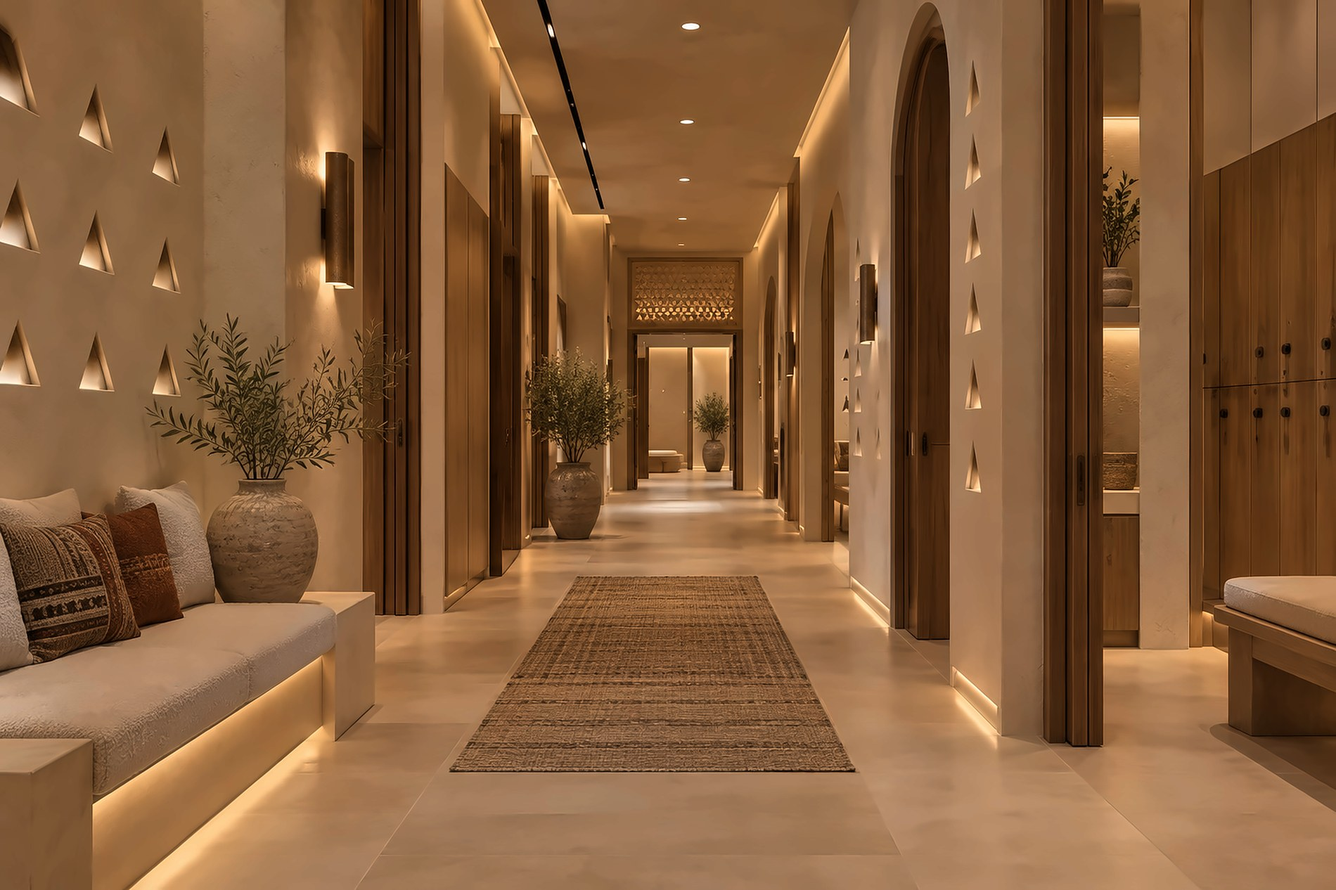
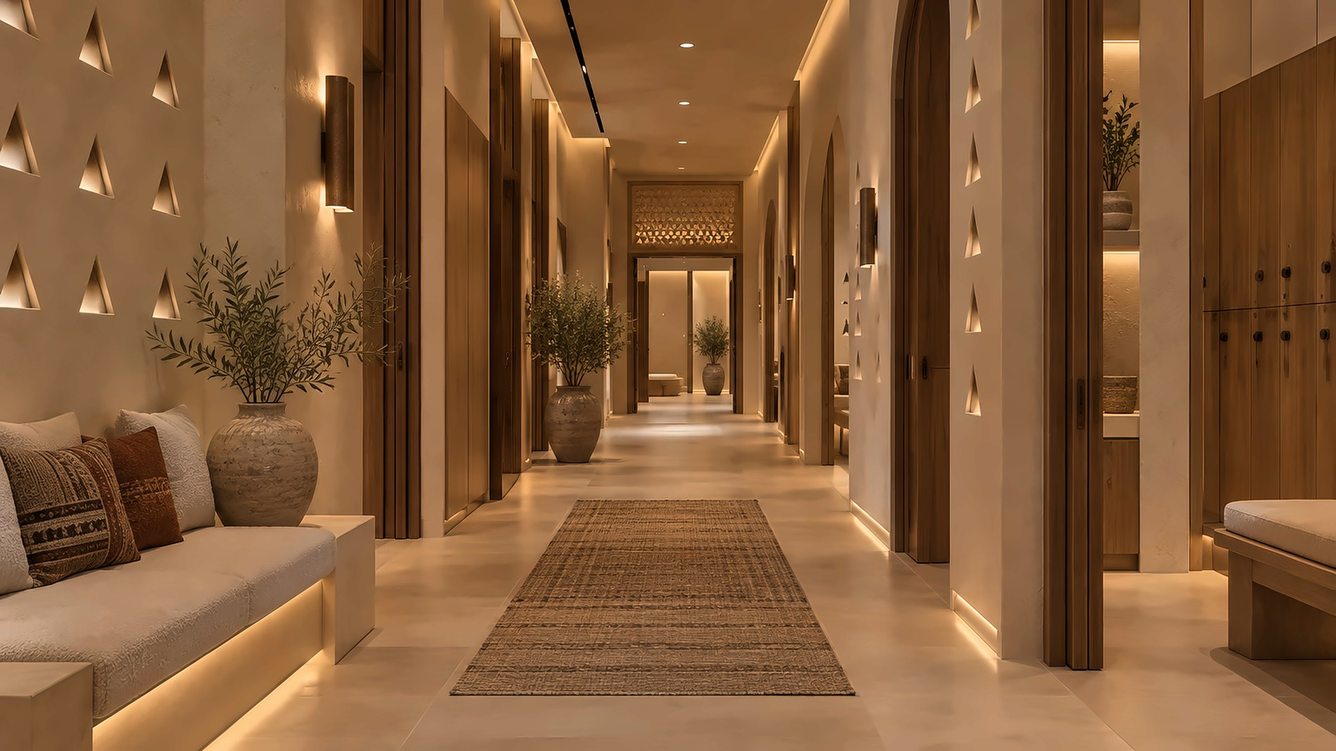
Sidra Pilates: consistent 16:9 images
Claude-Session: https://claude.ai/code/session_01AbeCJNANwosaTvqTpZqLxX

diff --git a/data.js b/data.js
@@ -1,1 +1,1 @@
-window.PROJECTS=[{"s":"com","n":"YRG Office","d":"تصميم داخلي لمقر إداري بخامات خشبية وخرسانية، يضم استقبالاً ومكاتب وقاعات اجتماعات.","p":[["p007-1.jpg",1160,920],["p007-2.jpg",1160,920],["p007-3.jpg",1156,920],["p008-1.jpg",1156,920],["p008-2.jpg",1160,920],["p008-3.jpg",1156,920],["p009-1.jpg",1400,783],["p010-1.jpg",1160,920],["p010-2.jpg",1160,916],["p010-3.jpg",1160,920],["p011-1.jpg",1160,920],["p011-2.jpg",1160,920],["p011-3.jpg",1160,920],["p012-1.jpg",1160,920],["p012-2.jpg",1160,916],["p012-3.jpg",1156,916],["p013-1.jpg",1156,920],["p013-2.jpg",1160,920],["p013-3.jpg",1160,920],["p014-1.jpg",1160,920],["p014-2.jpg",1160,920],["p014-3.jpg",1160,916]]},{"s":"com","n":"شركة FECO","d":"تصميم داخلي لمقر إداري متكامل، يضم مكاتب وقاعات اجتماعات وقاعة محاضرات.","p":[["p016-1.jpg",1400,933],["p016-2.jpg",1400,933],["p017-1.jpg",1400,933],["p017-2.jpg",1400,933],["p018-1.jpg",1400,933],["p018-2.jpg",1400,930],["p019-1.jpg",1400,938],["p019-2.jpg",1400,930],["p020-1.jpg",1400,783],["p021-1.jpg",1400,933],["p021-2.jpg",1400,935],["p022-1.jpg",1400,784],["p023-1.jpg",1400,933],["p023-2.jpg",1400,935],["p024-1.jpg",1400,783],["p025-1.jpg",1400,933],["p025-2.jpg",1400,935]]},{"s":"com","n":"شركة العليا للأعمال","d":"مقر شركة أعمال بواجهة حجرية وشرائح خشبية، يضم مدخلاً واستقبالاً وقاعة اجتماعات ومساحة عمل.","p":[["p027-1.jpg",1400,935],["p027-2.jpg",1400,935],["p028-1.jpg",1400,935],["p028-2.jpg",1400,932]]},{"s":"com","n":"شركة تسويق في الخبر","d":"مقر شركة تسويق بواجهة خرسانية وزجاج واسع، يضم مساحة عمل مفتوحة وركن قهوة وقاعة اجتماعات زجاجية.","p":[["p030-1.jpg",1400,932],["p030-2.jpg",1400,930],["p031-1.jpg",1400,932],["p031-2.jpg",1400,935]]},{"s":"com","n":"دار الاستشارات بالمدينة","d":"مقر استشاري بواجهة حجرية وأقواس، يضم استقبالاً وقاعة اجتماعات ومكتب مدير.","p":[["p033-1.jpg",1156,920],["p033-2.jpg",1160,920],["p033-3.jpg",1156,916],["p034-1.jpg",1400,847]]},{"s":"com","n":"مجمع السدحان التجاري","d":"مجمع تجاري ومكاتب بواجهات حجرية وخشبية، يضم محلات وردهات استقبال ومواقف سيارات وصالات جلوس.","p":[["p036-1.jpg",1400,930],["p036-2.jpg",1400,932],["p037-1.jpg",1400,935],["p037-2.jpg",1400,933],["p038-1.jpg",1400,935],["p038-2.jpg",1400,935],["p039-1.jpg",1400,933],["p039-2.jpg",1400,935],["p040-1.jpg",1400,930],["p040-2.jpg",1400,932],["p041-1.jpg",1400,930],["p041-2.jpg",1400,933],["p042-1.jpg",1400,933],["p042-2.jpg",1400,935],["p043-1.jpg",1400,933],["p043-2.jpg",1400,933],["p044-1.jpg",1400,935],["p044-2.jpg",1400,935],["p045-1.jpg",1400,933],["p045-2.jpg",1400,935],["p046-1.jpg",1400,933],["p046-2.jpg",1400,935],["p047-1.jpg",1400,933],["p047-2.jpg",1400,934],["p048-1.jpg",1400,930],["p048-2.jpg",1400,932],["p049-1.jpg",1400,935],["p049-2.jpg",1400,930]]},{"s":"com","n":"مجمع قرطبة التجاري","d":"مجمع تجاري بواجهات حجرية وأروقة مظللة، يضم محلات وممرات مفتوحة ومكتبة.","p":[["p051-1.jpg",1400,933],["p051-2.jpg",1400,933],["p052-1.jpg",1400,932],["p052-2.jpg",1400,935]]},{"s":"com","n":"المجمع التجاري","d":"مجمع تجاري بواجهات من الحجر الأبيض والشرائح الخشبية، يضم محلات تجزئة.","p":[["p054-1.jpg",1400,781],["p054-2.jpg",1400,776]]},{"s":"com","n":"معرض مسار للسيارات","d":"صالة معرض سيارات باستقبال ودرج وردهة عرض، وتضم مكاتب إدارية مفتوحة ومكتب مدير.","p":[["p056-1.jpg",1400,842],["p057-1.jpg",1400,933],["p057-2.jpg",1400,933],["p058-1.jpg",1400,929]]},{"s":"com","n":"مصنع الفخار","d":"مقر أعمال فخار بواجهة بلون الرمل، يضم استقبالاً ومعرضاً وورشة عمل وغرفة أفران.","p":[["p060-1.jpg",1160,920],["p060-2.jpg",1160,920],["p060-3.jpg",1160,920],["p061-1.jpg",1400,933],["p061-2.jpg",1400,933]]},{"s":"com","n":"صالون أناقة","d":"صالون نسائي متكامل، يضم استقبالاً وأقساماً للتجميل والعناية الشخصية.","p":[["p063-1.jpg",1160,920],["p063-2.jpg",1160,920],["p063-3.jpg",1160,920],["p064-1.jpg",1400,933],["p064-2.jpg",1400,933]]},{"s":"com","n":"بيلاتس سدرة","d":"استوديو بيلاتس بطابع حجري دافئ، يضم استقبالاً وصالات تمارين وغرف خدمات.","p":[["pilates-01.jpg",1900,1069],["pilates-02.jpg",1900,1069],["pilates-03.jpg",1900,1069],["pilates-04.jpg",1900,1266],["pilates-05.jpg",1919,820],["pilates-06.jpg",1900,1069]]},{"s":"com","n":"النادي الرياضي","d":"نادٍ رياضي بواجهة داكنة وإضاءة زرقاء، يضم استقبالاً وصالات تمارين واستوديوهات وغرف خزائن.","p":[["p069-1.jpg",1400,935],["p069-2.jpg",1400,935],["p070-1.jpg",1156,916],["p070-2.jpg",1156,916],["p070-3.jpg",1160,916],["p071-1.jpg",1400,934],["p071-2.jpg",1400,934],["p072-1.jpg",1400,932],["p072-2.jpg",1400,932]]},{"s":"com","n":"أتيليه الروضة","d":"بوتيك بواجهة حجرية وزجاج واسع، يضم صالة عرض ومنطقة جلوس وغرف قياس.","p":[["p074-1.jpg",1400,933],["p074-2.jpg",1400,935],["p075-1.jpg",1400,930],["p075-2.jpg",1400,935]]},{"s":"com","n":"مدرسة أفق","d":"مدرسة بواجهة بيضاء وتفاصيل سماوية، تضم فصولاً ومختبراً ومقصفاً ومسبحاً داخلياً.","p":[["p077-1.jpg",1400,933],["p077-2.jpg",1400,933],["p078-1.jpg",1400,826],["p079-1.jpg",1400,933],["p079-2.jpg",1400,935],["p080-1.jpg",1400,933],["p080-2.jpg",1400,933],["p081-1.jpg",1400,782]]},{"s":"food","n":"فرع مقهى د. كيف في KAFD","d":"مقهى بواجهة من الشبك الذهبي، يضم بار قهوة دائرياً بإضاءة محيطية ومقاعد بإطلالة على المدينة.","p":[["p084-1.jpg",1400,933],["p084-2.jpg",1400,932],["p085-1.jpg",1020,1280],["p085-2.jpg",1400,782]]},{"s":"food","n":"كافيه BETA","d":"كافيه بمجسم دائري مغطى بشبك معدني، يضم جلسات خشبية وباراً وإضاءة دافئة.","p":[["p087-1.jpg",1400,932],["p087-2.jpg",1400,932],["p088-1.jpg",1400,933],["p088-2.jpg",1400,932]]},{"s":"food","n":"المحمصة","d":"محمصة قهوة بواجهة خرسانية وطوب، تضم صالة التحميص وغرفة تذوق وبار تحضير.","p":[["p090-1.jpg",1400,935],["p090-2.jpg",1400,933],["p091-1.jpg",1400,933],["p091-2.jpg",1400,935]]},{"s":"food","n":"محمصة CORE","d":"محمصة قهوة بطابع عصري، بواجهة ليلية من شرائح معدنية سوداء ولوحة مضيئة.","p":[["p093-1.jpg",1400,932],["p093-2.jpg",1400,934]]},{"s":"food","n":"مطعم توهج اللؤلؤ","d":"مطعم في جدة بإطلالة بحرية وتفاصيل خشبية ورخامية، يضم استقبالاً وصالة طعام.","p":[["p095-1.jpg",1400,933],["p095-2.jpg",1400,935],["p096-1.jpg",1400,932],["p096-2.jpg",1400,930]]},{"s":"food","n":"مطعم المرتفعات","d":"مطعم في الباحة بإطلالة جبلية، بجدران حجرية داكنة وسقف خشبي ومطبخ مفتوح وشرفة خارجية.","p":[["p098-1.jpg",1400,932],["p098-2.jpg",1400,934],["p099-1.jpg",1400,930],["p099-2.jpg",1400,933]]},{"s":"res","n":"فيلا بتصميم عصري","d":"فيلا بواجهة من الحجر الرمادي والشرائح الخشبية، تظهر بإضاءة مسائية.","p":[["p102-1.jpg",1400,869],["p103-1.jpg",1400,930],["p103-2.jpg",1400,932]]},{"s":"res","n":"فيلا بالحجر الطبيعي","d":"فيلا بواجهة من حجر الترافرتين وشاشة خشبية مخرّمة، تضم مدخلاً وكراجاً مغطى بالخشب.","p":[["p105-1.jpg",1160,920],["p105-2.jpg",1156,920],["p105-3.jpg",1156,920],["p106-1.jpg",1400,935],["p106-2.jpg",1400,933]]},{"s":"res","n":"مبنى سكني بشرفات خضراء","d":"شقق سكنية في مكة المكرمة بشرفات مزروعة وواجهة مضاءة بإضاءة دافئة وقت الغروب.","p":[["p108-1.jpg",1400,656],["p109-1.jpg",1400,635]]},{"s":"res","n":"فيلا كلاسيكية بالحجر الكريمي","d":"فيلا بطراز كلاسيكي من الحجر الكريمي، بواجهة أمامية وتراس وحديقة خلفية.","p":[["p111-1.jpg",1156,920],["p111-2.jpg",1160,916],["p111-3.jpg",1156,920]]},{"s":"res","n":"مجلس عصري بجلسات بيج","d":"مجلس بتصميم عصري وجلسات بيج، بخلفية خشبية وثريا أسماك نحاسية.","p":[["p113-1.jpg",1400,933],["p113-2.jpg",1400,930]]},{"s":"res","n":"مجلس رجال بجلسات خضراء","d":"مجلس رجال بطابع فاخر وجلسات خضراء، بلوحة خيول وثريا كريستال.","p":[["p115-1.jpg",1400,933],["p115-2.jpg",1400,933]]},{"s":"res","n":"غرفة طعام رخامية","d":"غرفة طعام من الرخام بطاولة طويلة وثريا حلقات معدنية.","p":[["p117-1.jpg",1400,935],["p117-2.jpg",1400,935]]},{"s":"res","n":"فيلا بتصميم كلاسيكي","d":"فيلا بتصميم كلاسيكي، بصالة جلوس تضم مدفأة رخامية وثريا معدنية.","p":[["p119-1.jpg",1400,935],["p119-2.jpg",1400,933],["p120-1.jpg",1400,930],["p120-2.jpg",1400,933]]},{"s":"res","n":"فيلا صحراوية","d":"فيلا بطابع صحراوي، تضم غرفة معيشة وطعام ونوم بإطلالة جبلية.","p":[["p122-1.jpg",1400,933],["p122-2.jpg",1400,935]]},{"s":"res","n":"لوفت حضري في العلا","d":"لوفت بمساحات مفتوحة وأسقف مرتفعة، يجمع الخرسانة والخشب الداكن مع إطلالة على الحديقة.","p":[["p124-1.jpg",1400,935],["p124-2.jpg",1400,935],["p125-1.jpg",1400,938],["p125-2.jpg",1400,932],["p126-1.jpg",1400,774]]},{"s":"farm","n":"مزرعة RAC","d":"مزرعة بمبنى حديث بأسقف مائلة، يضم مواقف سيارات ومساحات خارجية.","p":[["p129-1.jpg",1400,932],["p129-2.jpg",1400,933]]},{"s":"farm","n":"فيلا المزرعة","d":"فيلا بتصميم أفقي حديث وسط المزارع، تظهر بإضاءة دافئة وقت الغروب.","p":[["p131-1.jpg",1400,933],["p131-2.jpg",1400,933],["p132-1.jpg",1400,935],["p132-2.jpg",1400,933]]},{"s":"farm","n":"مزرعة فناء النخل","d":"مزرعة ببيت حجري تحيط به أشجار النخيل، يضم مسبحاً ومساحات جلوس خارجية.","p":[["p134-1.jpg",1400,930],["p134-2.jpg",1400,933],["p135-1.jpg",1400,932],["p135-2.jpg",1400,935]]},{"s":"farm","n":"منزل ريفي في السودة","d":"منزل ريفي بطابع جبلي، مبني بالحجر على سفح الجبل وحوله مدرجات زراعية.","p":[["p137-1.jpg",1400,933],["p137-2.jpg",1400,933],["p138-1.jpg",1400,935],["p138-2.jpg",1400,935]]},{"s":"ind","n":"مصنع المشروبات الغازية","d":"مصنع مشروبات غازية بواجهة من الألواح البيضاء والأعمدة الحمراء.","p":[["p141-1.jpg",1400,935],["p141-2.jpg",1400,933],["p142-1.jpg",1400,933],["p142-2.jpg",1400,933],["p143-1.jpg",1160,920],["p143-2.jpg",1160,920],["p143-3.jpg",1160,920]]},{"s":"ind","n":"ساحة الرياض اللوجستية","d":"مجمع لوجستي يضم مبنى إدارياً ومستودعات بأرصفة تحميل وساحات مناولة.","p":[["p145-1.jpg",1400,932],["p145-2.jpg",1400,935],["p146-1.jpg",1400,933],["p146-2.jpg",1400,933]]}];
+window.PROJECTS=[{"s":"com","n":"YRG Office","d":"تصميم داخلي لمقر إداري بخامات خشبية وخرسانية، يضم استقبالاً ومكاتب وقاعات اجتماعات.","p":[["p007-1.jpg",1160,920],["p007-2.jpg",1160,920],["p007-3.jpg",1156,920],["p008-1.jpg",1156,920],["p008-2.jpg",1160,920],["p008-3.jpg",1156,920],["p009-1.jpg",1400,783],["p010-1.jpg",1160,920],["p010-2.jpg",1160,916],["p010-3.jpg",1160,920],["p011-1.jpg",1160,920],["p011-2.jpg",1160,920],["p011-3.jpg",1160,920],["p012-1.jpg",1160,920],["p012-2.jpg",1160,916],["p012-3.jpg",1156,916],["p013-1.jpg",1156,920],["p013-2.jpg",1160,920],["p013-3.jpg",1160,920],["p014-1.jpg",1160,920],["p014-2.jpg",1160,920],["p014-3.jpg",1160,916]]},{"s":"com","n":"شركة FECO","d":"تصميم داخلي لمقر إداري متكامل، يضم مكاتب وقاعات اجتماعات وقاعة محاضرات.","p":[["p016-1.jpg",1400,933],["p016-2.jpg",1400,933],["p017-1.jpg",1400,933],["p017-2.jpg",1400,933],["p018-1.jpg",1400,933],["p018-2.jpg",1400,930],["p019-1.jpg",1400,938],["p019-2.jpg",1400,930],["p020-1.jpg",1400,783],["p021-1.jpg",1400,933],["p021-2.jpg",1400,935],["p022-1.jpg",1400,784],["p023-1.jpg",1400,933],["p023-2.jpg",1400,935],["p024-1.jpg",1400,783],["p025-1.jpg",1400,933],["p025-2.jpg",1400,935]]},{"s":"com","n":"شركة العليا للأعمال","d":"مقر شركة أعمال بواجهة حجرية وشرائح خشبية، يضم مدخلاً واستقبالاً وقاعة اجتماعات ومساحة عمل.","p":[["p027-1.jpg",1400,935],["p027-2.jpg",1400,935],["p028-1.jpg",1400,935],["p028-2.jpg",1400,932]]},{"s":"com","n":"شركة تسويق في الخبر","d":"مقر شركة تسويق بواجهة خرسانية وزجاج واسع، يضم مساحة عمل مفتوحة وركن قهوة وقاعة اجتماعات زجاجية.","p":[["p030-1.jpg",1400,932],["p030-2.jpg",1400,930],["p031-1.jpg",1400,932],["p031-2.jpg",1400,935]]},{"s":"com","n":"دار الاستشارات بالمدينة","d":"مقر استشاري بواجهة حجرية وأقواس، يضم استقبالاً وقاعة اجتماعات ومكتب مدير.","p":[["p033-1.jpg",1156,920],["p033-2.jpg",1160,920],["p033-3.jpg",1156,916],["p034-1.jpg",1400,847]]},{"s":"com","n":"مجمع السدحان التجاري","d":"مجمع تجاري ومكاتب بواجهات حجرية وخشبية، يضم محلات وردهات استقبال ومواقف سيارات وصالات جلوس.","p":[["p036-1.jpg",1400,930],["p036-2.jpg",1400,932],["p037-1.jpg",1400,935],["p037-2.jpg",1400,933],["p038-1.jpg",1400,935],["p038-2.jpg",1400,935],["p039-1.jpg",1400,933],["p039-2.jpg",1400,935],["p040-1.jpg",1400,930],["p040-2.jpg",1400,932],["p041-1.jpg",1400,930],["p041-2.jpg",1400,933],["p042-1.jpg",1400,933],["p042-2.jpg",1400,935],["p043-1.jpg",1400,933],["p043-2.jpg",1400,933],["p044-1.jpg",1400,935],["p044-2.jpg",1400,935],["p045-1.jpg",1400,933],["p045-2.jpg",1400,935],["p046-1.jpg",1400,933],["p046-2.jpg",1400,935],["p047-1.jpg",1400,933],["p047-2.jpg",1400,934],["p048-1.jpg",1400,930],["p048-2.jpg",1400,932],["p049-1.jpg",1400,935],["p049-2.jpg",1400,930]]},{"s":"com","n":"مجمع قرطبة التجاري","d":"مجمع تجاري بواجهات حجرية وأروقة مظللة، يضم محلات وممرات مفتوحة ومكتبة.","p":[["p051-1.jpg",1400,933],["p051-2.jpg",1400,933],["p052-1.jpg",1400,932],["p052-2.jpg",1400,935]]},{"s":"com","n":"المجمع التجاري","d":"مجمع تجاري بواجهات من الحجر الأبيض والشرائح الخشبية، يضم محلات تجزئة.","p":[["p054-1.jpg",1400,781],["p054-2.jpg",1400,776]]},{"s":"com","n":"معرض مسار للسيارات","d":"صالة معرض سيارات باستقبال ودرج وردهة عرض، وتضم مكاتب إدارية مفتوحة ومكتب مدير.","p":[["p056-1.jpg",1400,842],["p057-1.jpg",1400,933],["p057-2.jpg",1400,933],["p058-1.jpg",1400,929]]},{"s":"com","n":"مصنع الفخار","d":"مقر أعمال فخار بواجهة بلون الرمل، يضم استقبالاً ومعرضاً وورشة عمل وغرفة أفران.","p":[["p060-1.jpg",1160,920],["p060-2.jpg",1160,920],["p060-3.jpg",1160,920],["p061-1.jpg",1400,933],["p061-2.jpg",1400,933]]},{"s":"com","n":"صالون أناقة","d":"صالون نسائي متكامل، يضم استقبالاً وأقساماً للتجميل والعناية الشخصية.","p":[["p063-1.jpg",1160,920],["p063-2.jpg",1160,920],["p063-3.jpg",1160,920],["p064-1.jpg",1400,933],["p064-2.jpg",1400,933]]},{"s":"com","n":"بيلاتس سدرة","d":"استوديو بيلاتس بطابع حجري دافئ، يضم استقبالاً وصالات تمارين وغرف خدمات.","p":[["pilates-01.jpg",1900,1069],["pilates-02.jpg",1900,1069],["pilates-03.jpg",1900,1069],["pilates-04.jpg",1900,1069],["pilates-05.jpg",1900,1069],["pilates-06.jpg",1900,1069]]},{"s":"com","n":"النادي الرياضي","d":"نادٍ رياضي بواجهة داكنة وإضاءة زرقاء، يضم استقبالاً وصالات تمارين واستوديوهات وغرف خزائن.","p":[["p069-1.jpg",1400,935],["p069-2.jpg",1400,935],["p070-1.jpg",1156,916],["p070-2.jpg",1156,916],["p070-3.jpg",1160,916],["p071-1.jpg",1400,934],["p071-2.jpg",1400,934],["p072-1.jpg",1400,932],["p072-2.jpg",1400,932]]},{"s":"com","n":"أتيليه الروضة","d":"بوتيك بواجهة حجرية وزجاج واسع، يضم صالة عرض ومنطقة جلوس وغرف قياس.","p":[["p074-1.jpg",1400,933],["p074-2.jpg",1400,935],["p075-1.jpg",1400,930],["p075-2.jpg",1400,935]]},{"s":"com","n":"مدرسة أفق","d":"مدرسة بواجهة بيضاء وتفاصيل سماوية، تضم فصولاً ومختبراً ومقصفاً ومسبحاً داخلياً.","p":[["p077-1.jpg",1400,933],["p077-2.jpg",1400,933],["p078-1.jpg",1400,826],["p079-1.jpg",1400,933],["p079-2.jpg",1400,935],["p080-1.jpg",1400,933],["p080-2.jpg",1400,933],["p081-1.jpg",1400,782]]},{"s":"food","n":"فرع مقهى د. كيف في KAFD","d":"مقهى بواجهة من الشبك الذهبي، يضم بار قهوة دائرياً بإضاءة محيطية ومقاعد بإطلالة على المدينة.","p":[["p084-1.jpg",1400,933],["p084-2.jpg",1400,932],["p085-1.jpg",1020,1280],["p085-2.jpg",1400,782]]},{"s":"food","n":"كافيه BETA","d":"كافيه بمجسم دائري مغطى بشبك معدني، يضم جلسات خشبية وباراً وإضاءة دافئة.","p":[["p087-1.jpg",1400,932],["p087-2.jpg",1400,932],["p088-1.jpg",1400,933],["p088-2.jpg",1400,932]]},{"s":"food","n":"المحمصة","d":"محمصة قهوة بواجهة خرسانية وطوب، تضم صالة التحميص وغرفة تذوق وبار تحضير.","p":[["p090-1.jpg",1400,935],["p090-2.jpg",1400,933],["p091-1.jpg",1400,933],["p091-2.jpg",1400,935]]},{"s":"food","n":"محمصة CORE","d":"محمصة قهوة بطابع عصري، بواجهة ليلية من شرائح معدنية سوداء ولوحة مضيئة.","p":[["p093-1.jpg",1400,932],["p093-2.jpg",1400,934]]},{"s":"food","n":"مطعم توهج اللؤلؤ","d":"مطعم في جدة بإطلالة بحرية وتفاصيل خشبية ورخامية، يضم استقبالاً وصالة طعام.","p":[["p095-1.jpg",1400,933],["p095-2.jpg",1400,935],["p096-1.jpg",1400,932],["p096-2.jpg",1400,930]]},{"s":"food","n":"مطعم المرتفعات","d":"مطعم في الباحة بإطلالة جبلية، بجدران حجرية داكنة وسقف خشبي ومطبخ مفتوح وشرفة خارجية.","p":[["p098-1.jpg",1400,932],["p098-2.jpg",1400,934],["p099-1.jpg",1400,930],["p099-2.jpg",1400,933]]},{"s":"res","n":"فيلا بتصميم عصري","d":"فيلا بواجهة من الحجر الرمادي والشرائح الخشبية، تظهر بإضاءة مسائية.","p":[["p102-1.jpg",1400,869],["p103-1.jpg",1400,930],["p103-2.jpg",1400,932]]},{"s":"res","n":"فيلا بالحجر الطبيعي","d":"فيلا بواجهة من حجر الترافرتين وشاشة خشبية مخرّمة، تضم مدخلاً وكراجاً مغطى بالخشب.","p":[["p105-1.jpg",1160,920],["p105-2.jpg",1156,920],["p105-3.jpg",1156,920],["p106-1.jpg",1400,935],["p106-2.jpg",1400,933]]},{"s":"res","n":"مبنى سكني بشرفات خضراء","d":"شقق سكنية في مكة المكرمة بشرفات مزروعة وواجهة مضاءة بإضاءة دافئة وقت الغروب.","p":[["p108-1.jpg",1400,656],["p109-1.jpg",1400,635]]},{"s":"res","n":"فيلا كلاسيكية بالحجر الكريمي","d":"فيلا بطراز كلاسيكي من الحجر الكريمي، بواجهة أمامية وتراس وحديقة خلفية.","p":[["p111-1.jpg",1156,920],["p111-2.jpg",1160,916],["p111-3.jpg",1156,920]]},{"s":"res","n":"مجلس عصري بجلسات بيج","d":"مجلس بتصميم عصري وجلسات بيج، بخلفية خشبية وثريا أسماك نحاسية.","p":[["p113-1.jpg",1400,933],["p113-2.jpg",1400,930]]},{"s":"res","n":"مجلس رجال بجلسات خضراء","d":"مجلس رجال بطابع فاخر وجلسات خضراء، بلوحة خيول وثريا كريستال.","p":[["p115-1.jpg",1400,933],["p115-2.jpg",1400,933]]},{"s":"res","n":"غرفة طعام رخامية","d":"غرفة طعام من الرخام بطاولة طويلة وثريا حلقات معدنية.","p":[["p117-1.jpg",1400,935],["p117-2.jpg",1400,935]]},{"s":"res","n":"فيلا بتصميم كلاسيكي","d":"فيلا بتصميم كلاسيكي، بصالة جلوس تضم مدفأة رخامية وثريا معدنية.","p":[["p119-1.jpg",1400,935],["p119-2.jpg",1400,933],["p120-1.jpg",1400,930],["p120-2.jpg",1400,933]]},{"s":"res","n":"فيلا صحراوية","d":"فيلا بطابع صحراوي، تضم غرفة معيشة وطعام ونوم بإطلالة جبلية.","p":[["p122-1.jpg",1400,933],["p122-2.jpg",1400,935]]},{"s":"res","n":"لوفت حضري في العلا","d":"لوفت بمساحات مفتوحة وأسقف مرتفعة، يجمع الخرسانة والخشب الداكن مع إطلالة على الحديقة.","p":[["p124-1.jpg",1400,935],["p124-2.jpg",1400,935],["p125-1.jpg",1400,938],["p125-2.jpg",1400,932],["p126-1.jpg",1400,774]]},{"s":"farm","n":"مزرعة RAC","d":"مزرعة بمبنى حديث بأسقف مائلة، يضم مواقف سيارات ومساحات خارجية.","p":[["p129-1.jpg",1400,932],["p129-2.jpg",1400,933]]},{"s":"farm","n":"فيلا المزرعة","d":"فيلا بتصميم أفقي حديث وسط المزارع، تظهر بإضاءة دافئة وقت الغروب.","p":[["p131-1.jpg",1400,933],["p131-2.jpg",1400,933],["p132-1.jpg",1400,935],["p132-2.jpg",1400,933]]},{"s":"farm","n":"مزرعة فناء النخل","d":"مزرعة ببيت حجري تحيط به أشجار النخيل، يضم مسبحاً ومساحات جلوس خارجية.","p":[["p134-1.jpg",1400,930],["p134-2.jpg",1400,933],["p135-1.jpg",1400,932],["p135-2.jpg",1400,935]]},{"s":"farm","n":"منزل ريفي في السودة","d":"منزل ريفي بطابع جبلي، مبني بالحجر على سفح الجبل وحوله مدرجات زراعية.","p":[["p137-1.jpg",1400,933],["p137-2.jpg",1400,933],["p138-1.jpg",1400,935],["p138-2.jpg",1400,935]]},{"s":"ind","n":"مصنع المشروبات الغازية","d":"مصنع مشروبات غازية بواجهة من الألواح البيضاء والأعمدة الحمراء.","p":[["p141-1.jpg",1400,935],["p141-2.jpg",1400,933],["p142-1.jpg",1400,933],["p142-2.jpg",1400,933],["p143-1.jpg",1160,920],["p143-2.jpg",1160,920],["p143-3.jpg",1160,920]]},{"s":"ind","n":"ساحة الرياض اللوجستية","d":"مجمع لوجستي يضم مبنى إدارياً ومستودعات بأرصفة تحميل وساحات مناولة.","p":[["p145-1.jpg",1400,932],["p145-2.jpg",1400,935],["p146-1.jpg",1400,933],["p146-2.jpg",1400,933]]}];
